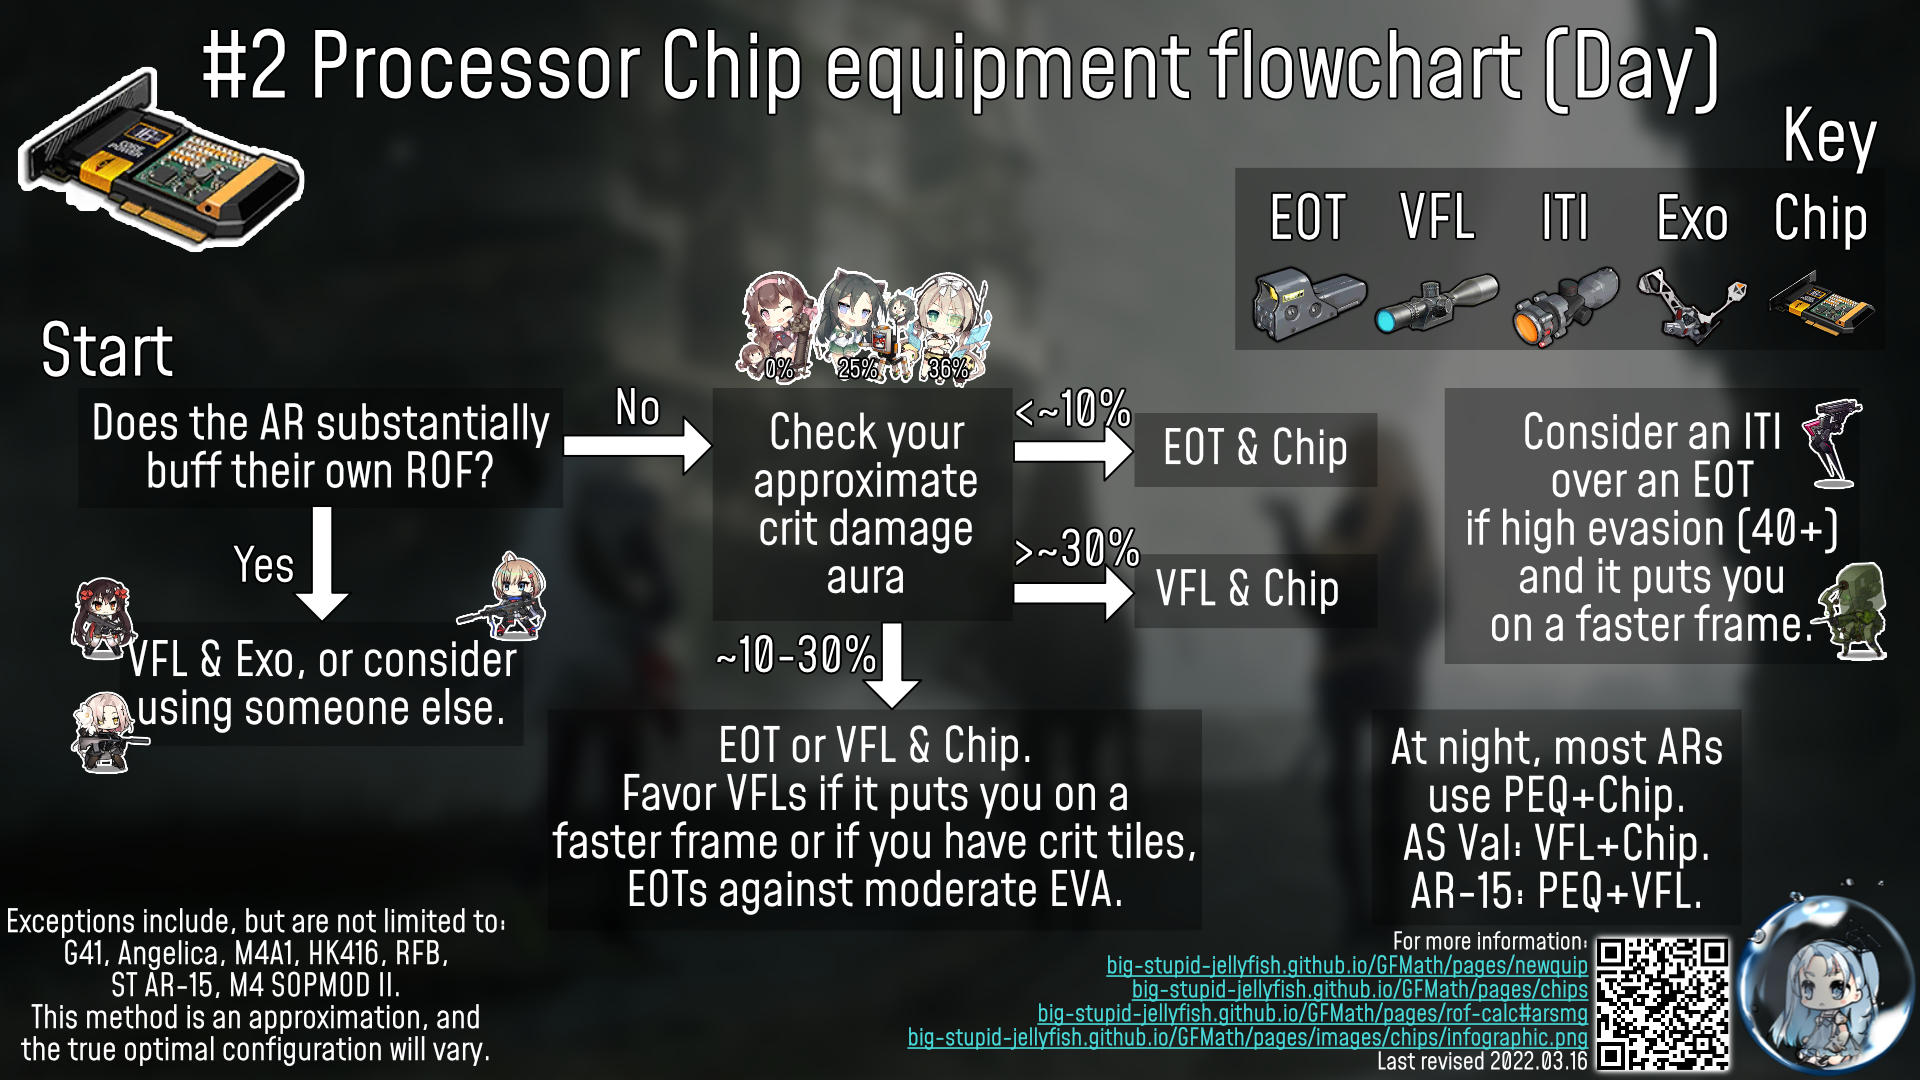
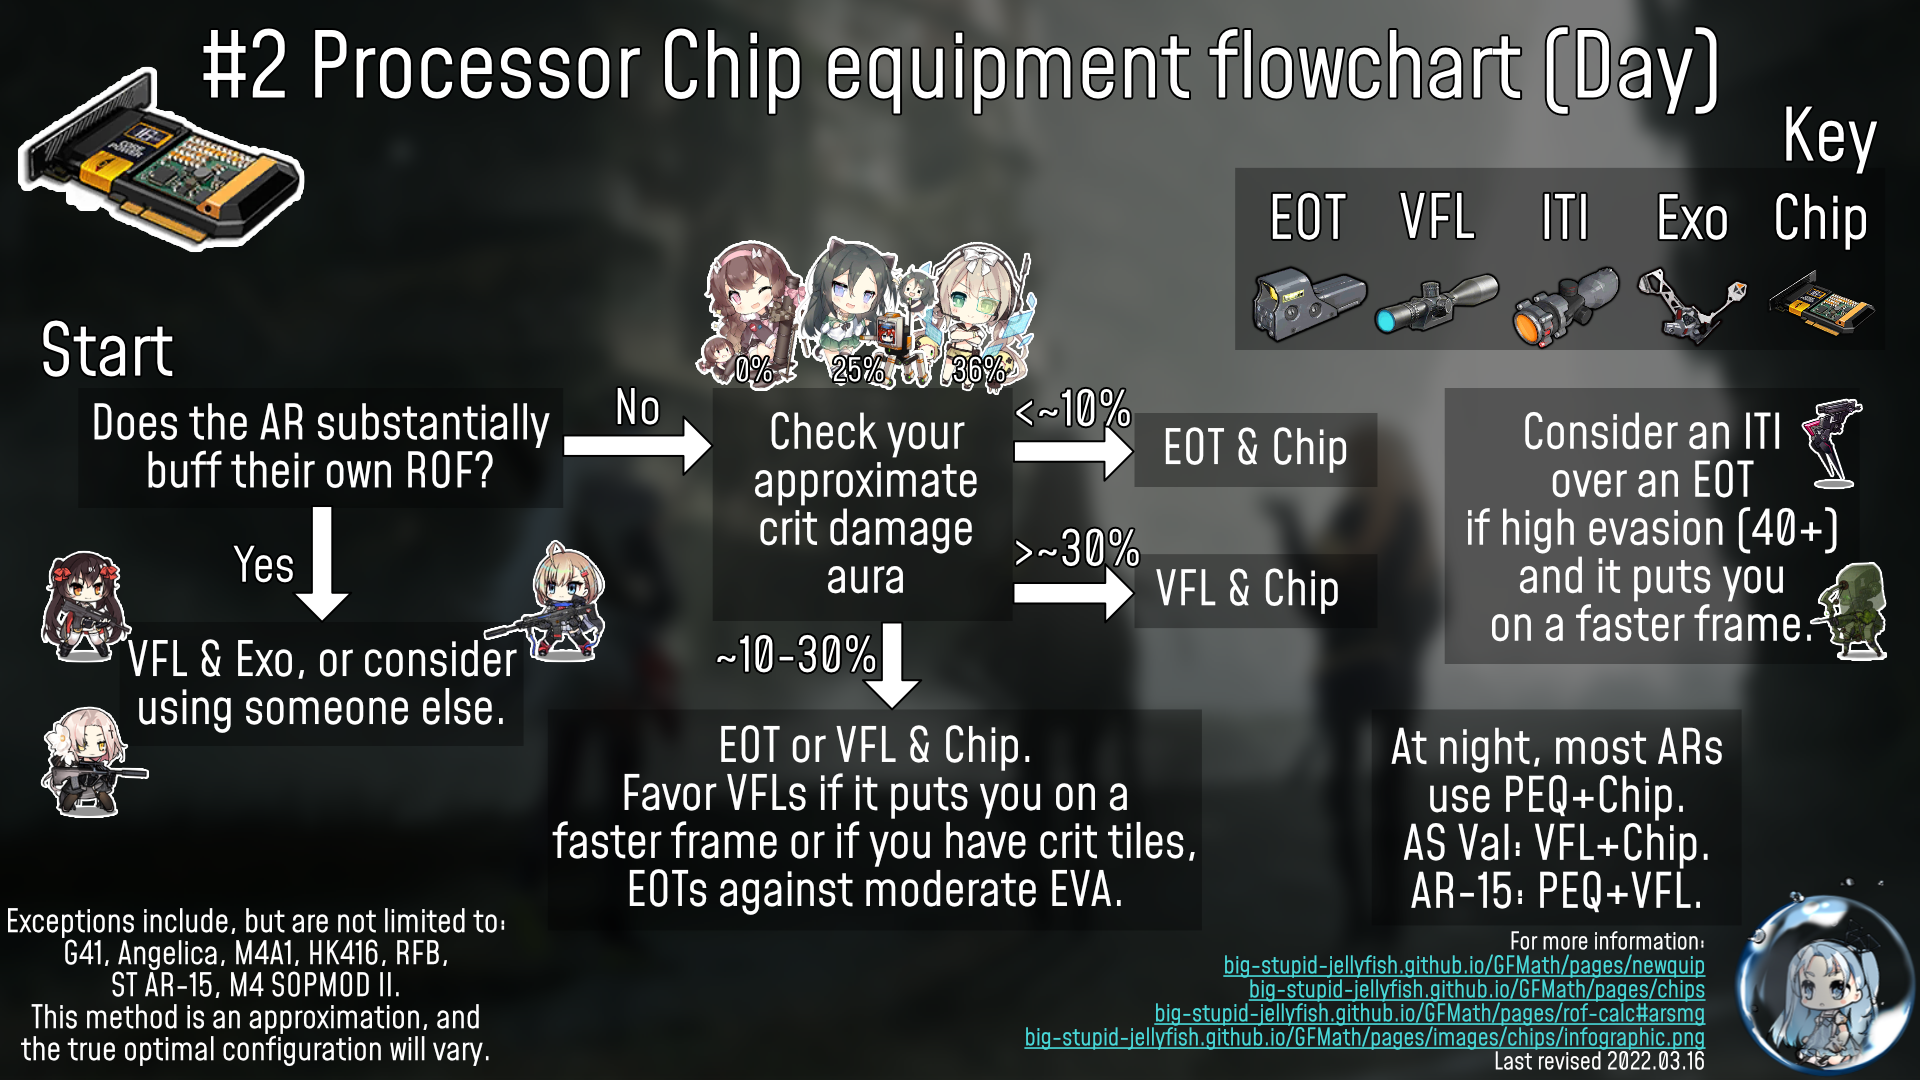
theater 7/myth rewording/improve chip infographic visuals

diff --git a/pages/myths.html b/pages/myths.html
@@ -1119,9 +1119,11 @@ You'd want at least some FP buffs, but that's true for any team.</p>
 <ul>
 	<li>Basic DPS, on DPS units (FP/ACC/ROF+equipment)</li>
 	<li>Effective HP, on tank units (HP/EVA/Armor+equipment vs enemy FP/ACC)</li>
-	<li>RFs for one-shotting the basic data dummy are largely chosen by FP. Even then, skills like Falcon remain factors.</li>
-	<li>Armor is worth some consideration, but at most you just add another armor tile for a specific case.</li>
-	<li>ROF seems like it would matter more with how frames work, but very few players will get into that level of optimization and it approximately averages out across various configurations.</li>
+	<li>RFs for one-shotting the basic data dummy have largely been chosen by FP in the past. But this isn't enough to displace dolls with skills like HS.50 and Type56R mod.</li>
+	<li>Armor is worth some consideration, but you often can just add another armor tile for a specific case.</li>
+	<li>ROF seems like it would matter more with how frames work, but very few players will get into that level of optimization and it approximately averages out across various configurations.
+		If you're not overcapping, WA's active will typically buff her DPS by ~75%. You really don't need to plug her ROF/other buffs into some calculator for 99% of situations.
+	</li>
 </ul>
 <p>
 	It's much better to focus on things like their skill effect, total damage dealt, specific calculations, overall performance in field tests, and so on.
@@ -1135,9 +1137,7 @@ You'd want at least some FP buffs, but that's true for any team.</p>
 	I haven't used a Command fairy in years. <a href="https://i.imgur.com/4o72763.png">I'll let you guess why</a>.
 	Does that make Command fairy bad?
 	Should new players not actually raise one?
-</p>
-<p>
-	(In an even worse position by this metric would be Warrior/Artillery/Airstrike/Rescue.)
+	In an even worse position by this metric would be Warrior/Artillery/Airstrike/Rescue.
 </p>
 
 <p>
@@ -1176,6 +1176,9 @@ You'd want at least some FP buffs, but that's true for any team.</p>
 	<li>This is largely carried by pre-skill DPS and short timeframes. If you care that much about pre-skill DPS, use something with a much shorter ICD or a passive.</li>
 	<li>This advantage will erode quite quickly once you insert the doll into real echelons. You'll probably end up with at least some combination of ROF/crit rate tiles and a crit damage aura (have you seen <a href="ro635">RO's mod?</a> Beach fairy? M4A1?), which make chips much less attractive on ROF buffers.</li>
 </ol>
+<p>
+	(But this doesn't make ROF buffers worth using! Their skill multipliers are about on par with FP selfbuffers, and they see little to no benefit from chips - making them do worse by comparison.)
+</p>
 <span class="anchor" id="mgeva"></span>
 <h2>MGs should only be used against 0-EVA enemies<sup><small><a href="#mgeva">&#35;</a><a href="#">↑</a></small></sup></h2>
 <p><strong>Status:</strong> if only we could be so lucky.</p>
@@ -1218,7 +1221,8 @@ You'd want at least some FP buffs, but that's true for any team.</p>
 </ul>
 <p>
 	It should be clear how these formulas can be rearranged.
-	It is equivalent to a straight FP buff against armored enemies - nice, but it doesn't revolutionize her role.
+	This extra hit is equivalent to a straight FP buff against armored enemies - nice, but it doesn't revolutionize her role.
+	It "ignoring armor" is not some special bonus.
 </p>
 <p>
 	In other words: <code>(1.0*FP - (Armor - AP))*Crit damage + (0.1*FP)*Crit damage = (1.1*FP - (Armor - AP))*Crit damage</code>.
@@ -1245,6 +1249,7 @@ You'd want at least some FP buffs, but that's true for any team.</p>
 		For example: each stat affected by size (HP/FP/ROF/ACC/EVA/Armor) on a XS->XL lv100 Manticore increases by 4.8-6.5%.
 		On a Nemeum: they improve by 6.0-10.0%.
 		Tarantulas: 4.0-8.5%.
+		There may be some 10% scaling factor in internal calculations, but that doesn't directly map onto the actual stat changes.
 	</li>
 	<li>
 		Actual improvements in effectiveness are not the same as the individual stat increases.
@@ -1277,6 +1282,7 @@ You'd want at least some FP buffs, but that's true for any team.</p>
 <p>
 	To be most proper, there are other considerations due to stuff like link protection.
 	<a href="thompson">Some examples of that here</a>, but that tends to get into super niche theory.
+	EHP is an excellent at-a-glance measure.
 </p>
 
 <span class="anchor" id="p2liu"></span>
@@ -1339,7 +1345,8 @@ You'd want at least some FP buffs, but that's true for any team.</p>
 </p>
 <p>
 	G11 is an amazing AR in almost any scenario you would bring an AR for, plus a few more you wouldn't.
-	But a good amount of that is also attributable to her high basic DPS, massive in-skill burst due to the triple hit, and an insane mod 3 SPEQ - especially outside of boss battles.
+	But a decent amount of that is also attributable to her high basic DPS, massive in-skill burst due to the triple hit, and an insane mod 3 SPEQ - especially outside of boss battles.
+</p>
 </p>
 
 <span class="anchor" id="ads"></span>

diff --git a/pages/about.html b/pages/about.html
@@ -91,6 +91,7 @@ gtag('config', 'G-805N997DPC');
 	<li>Dual Randomness #38</li>
 	<li>Theater 7 #23 overall/#24 final battle</li>
 	<li><a href="https://imgur.com/a/wNiYQSD">Mirror Stage 2%</a></li>
+	<li>Theater 8 #27 overall/#42 final battle</li>
 </ul>
 
 <span class="anchor" id="other"></span>
